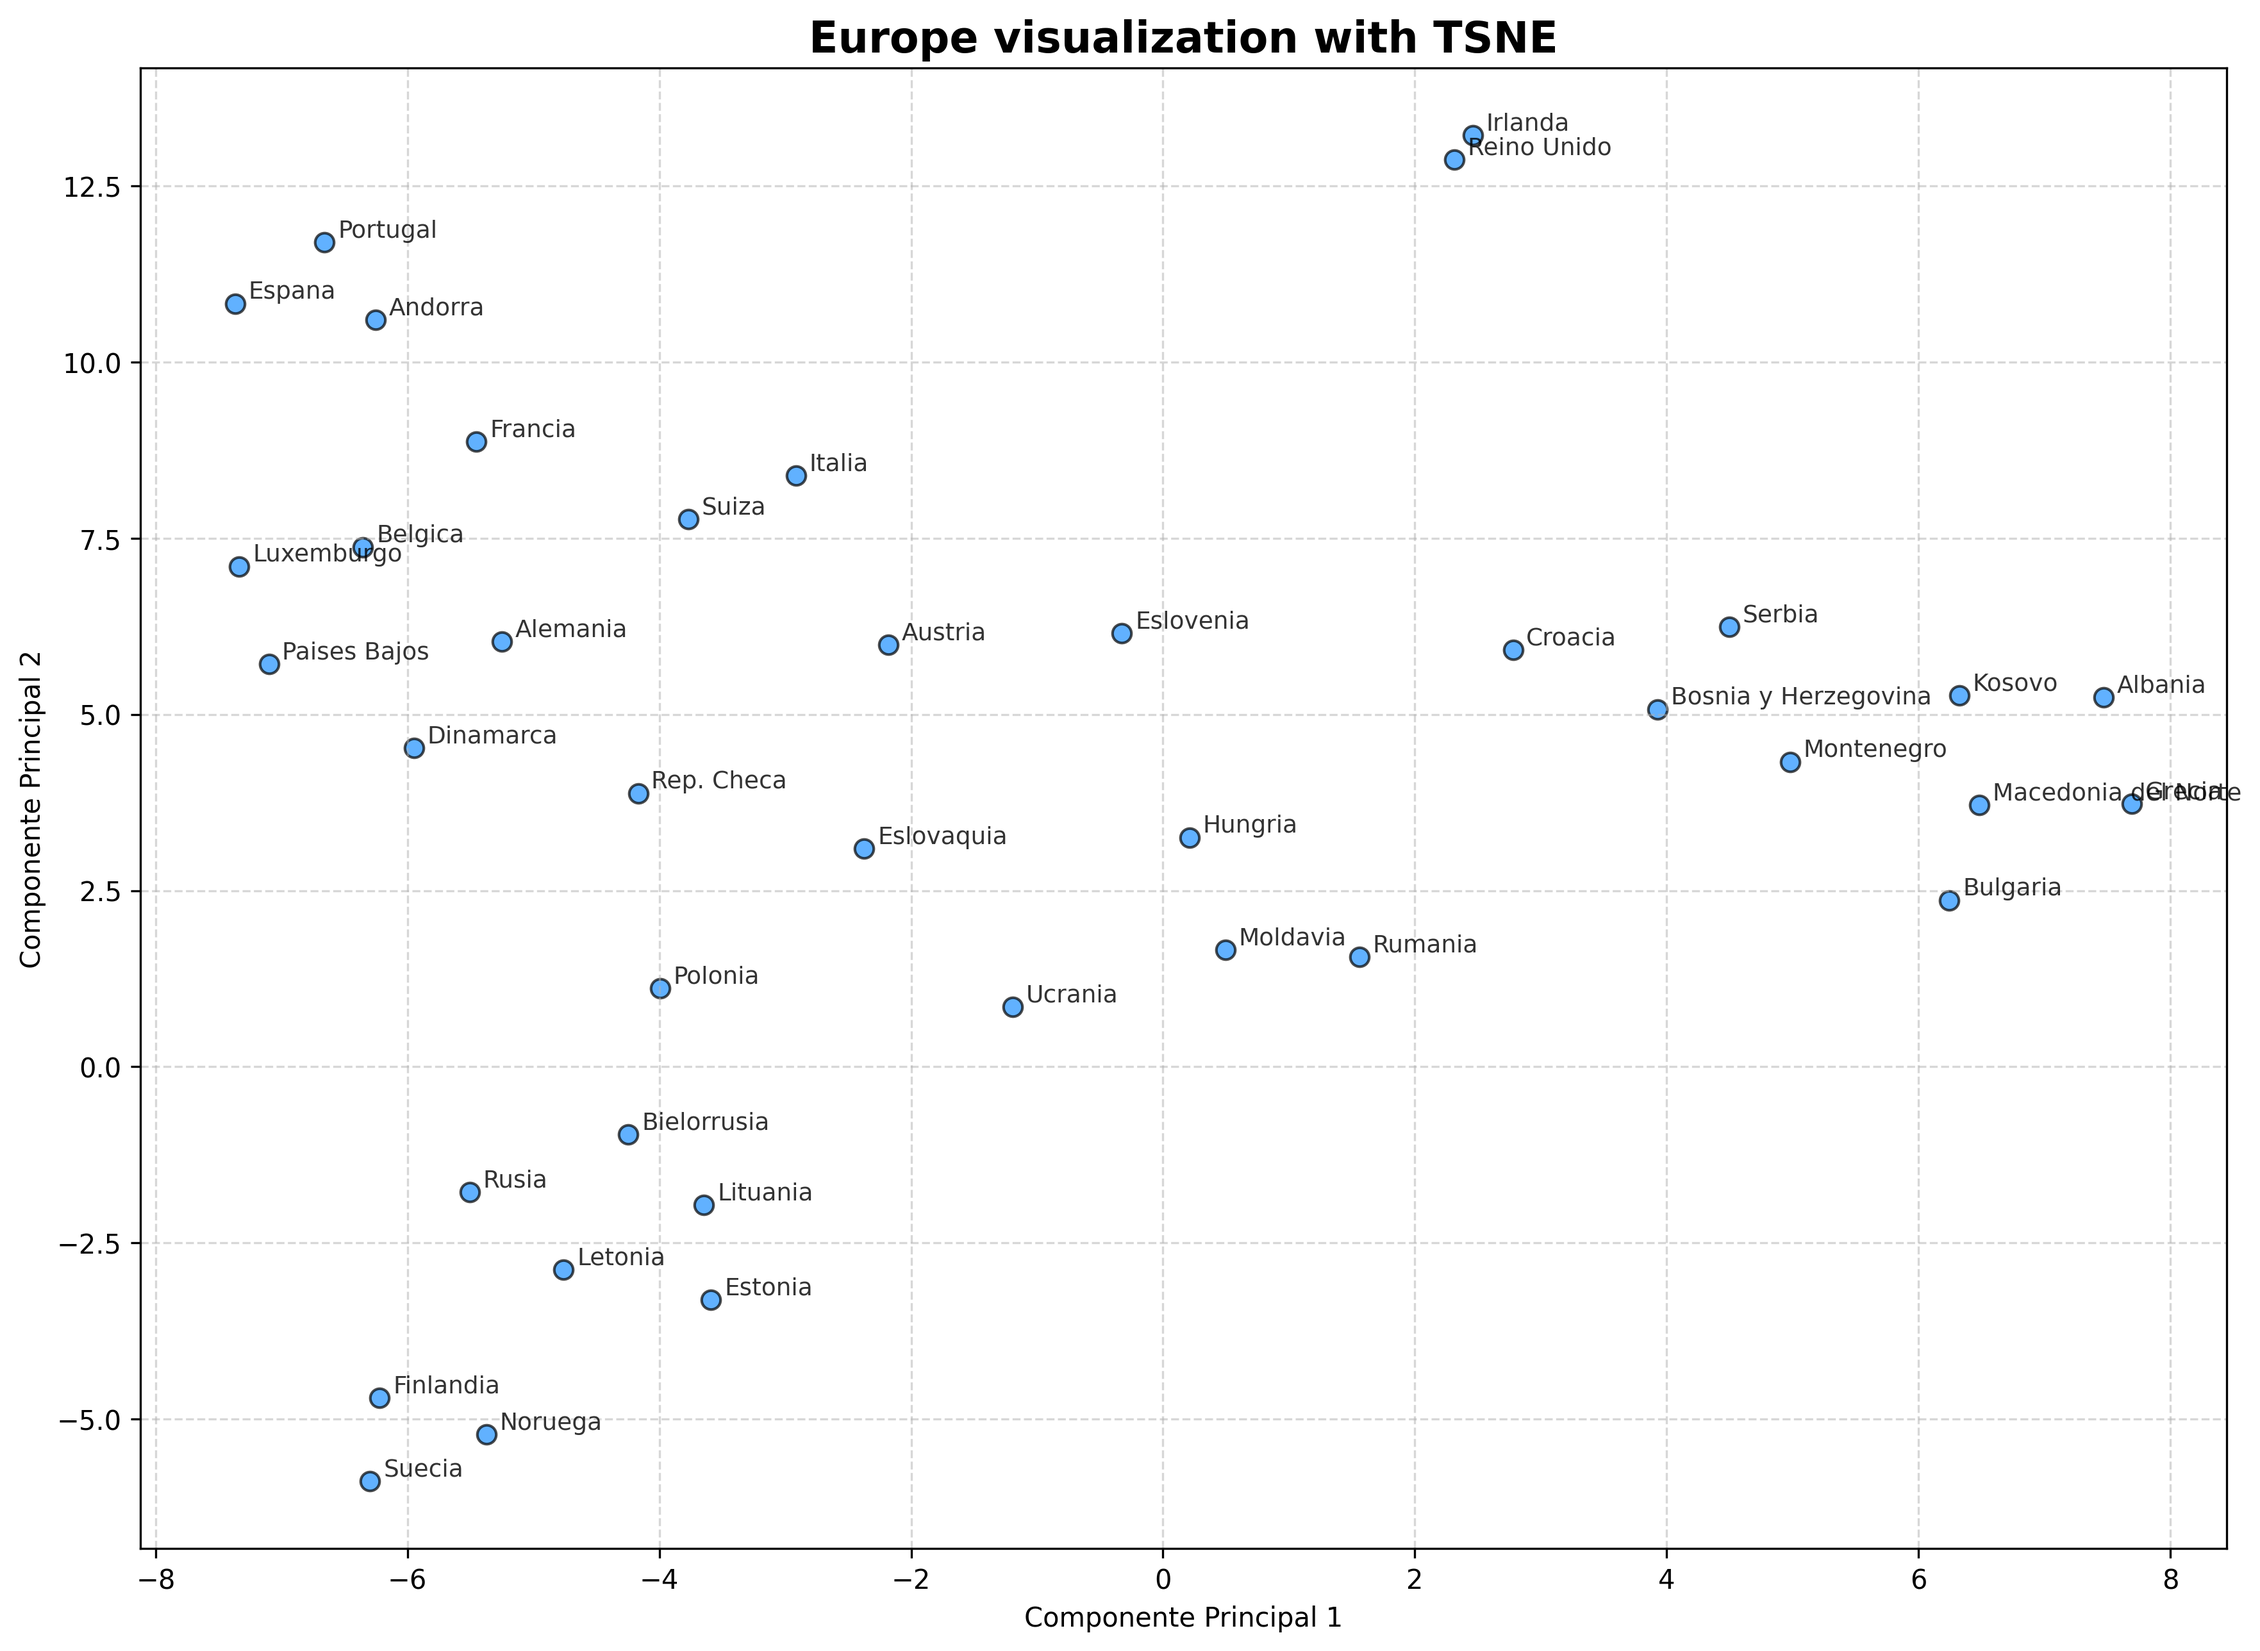
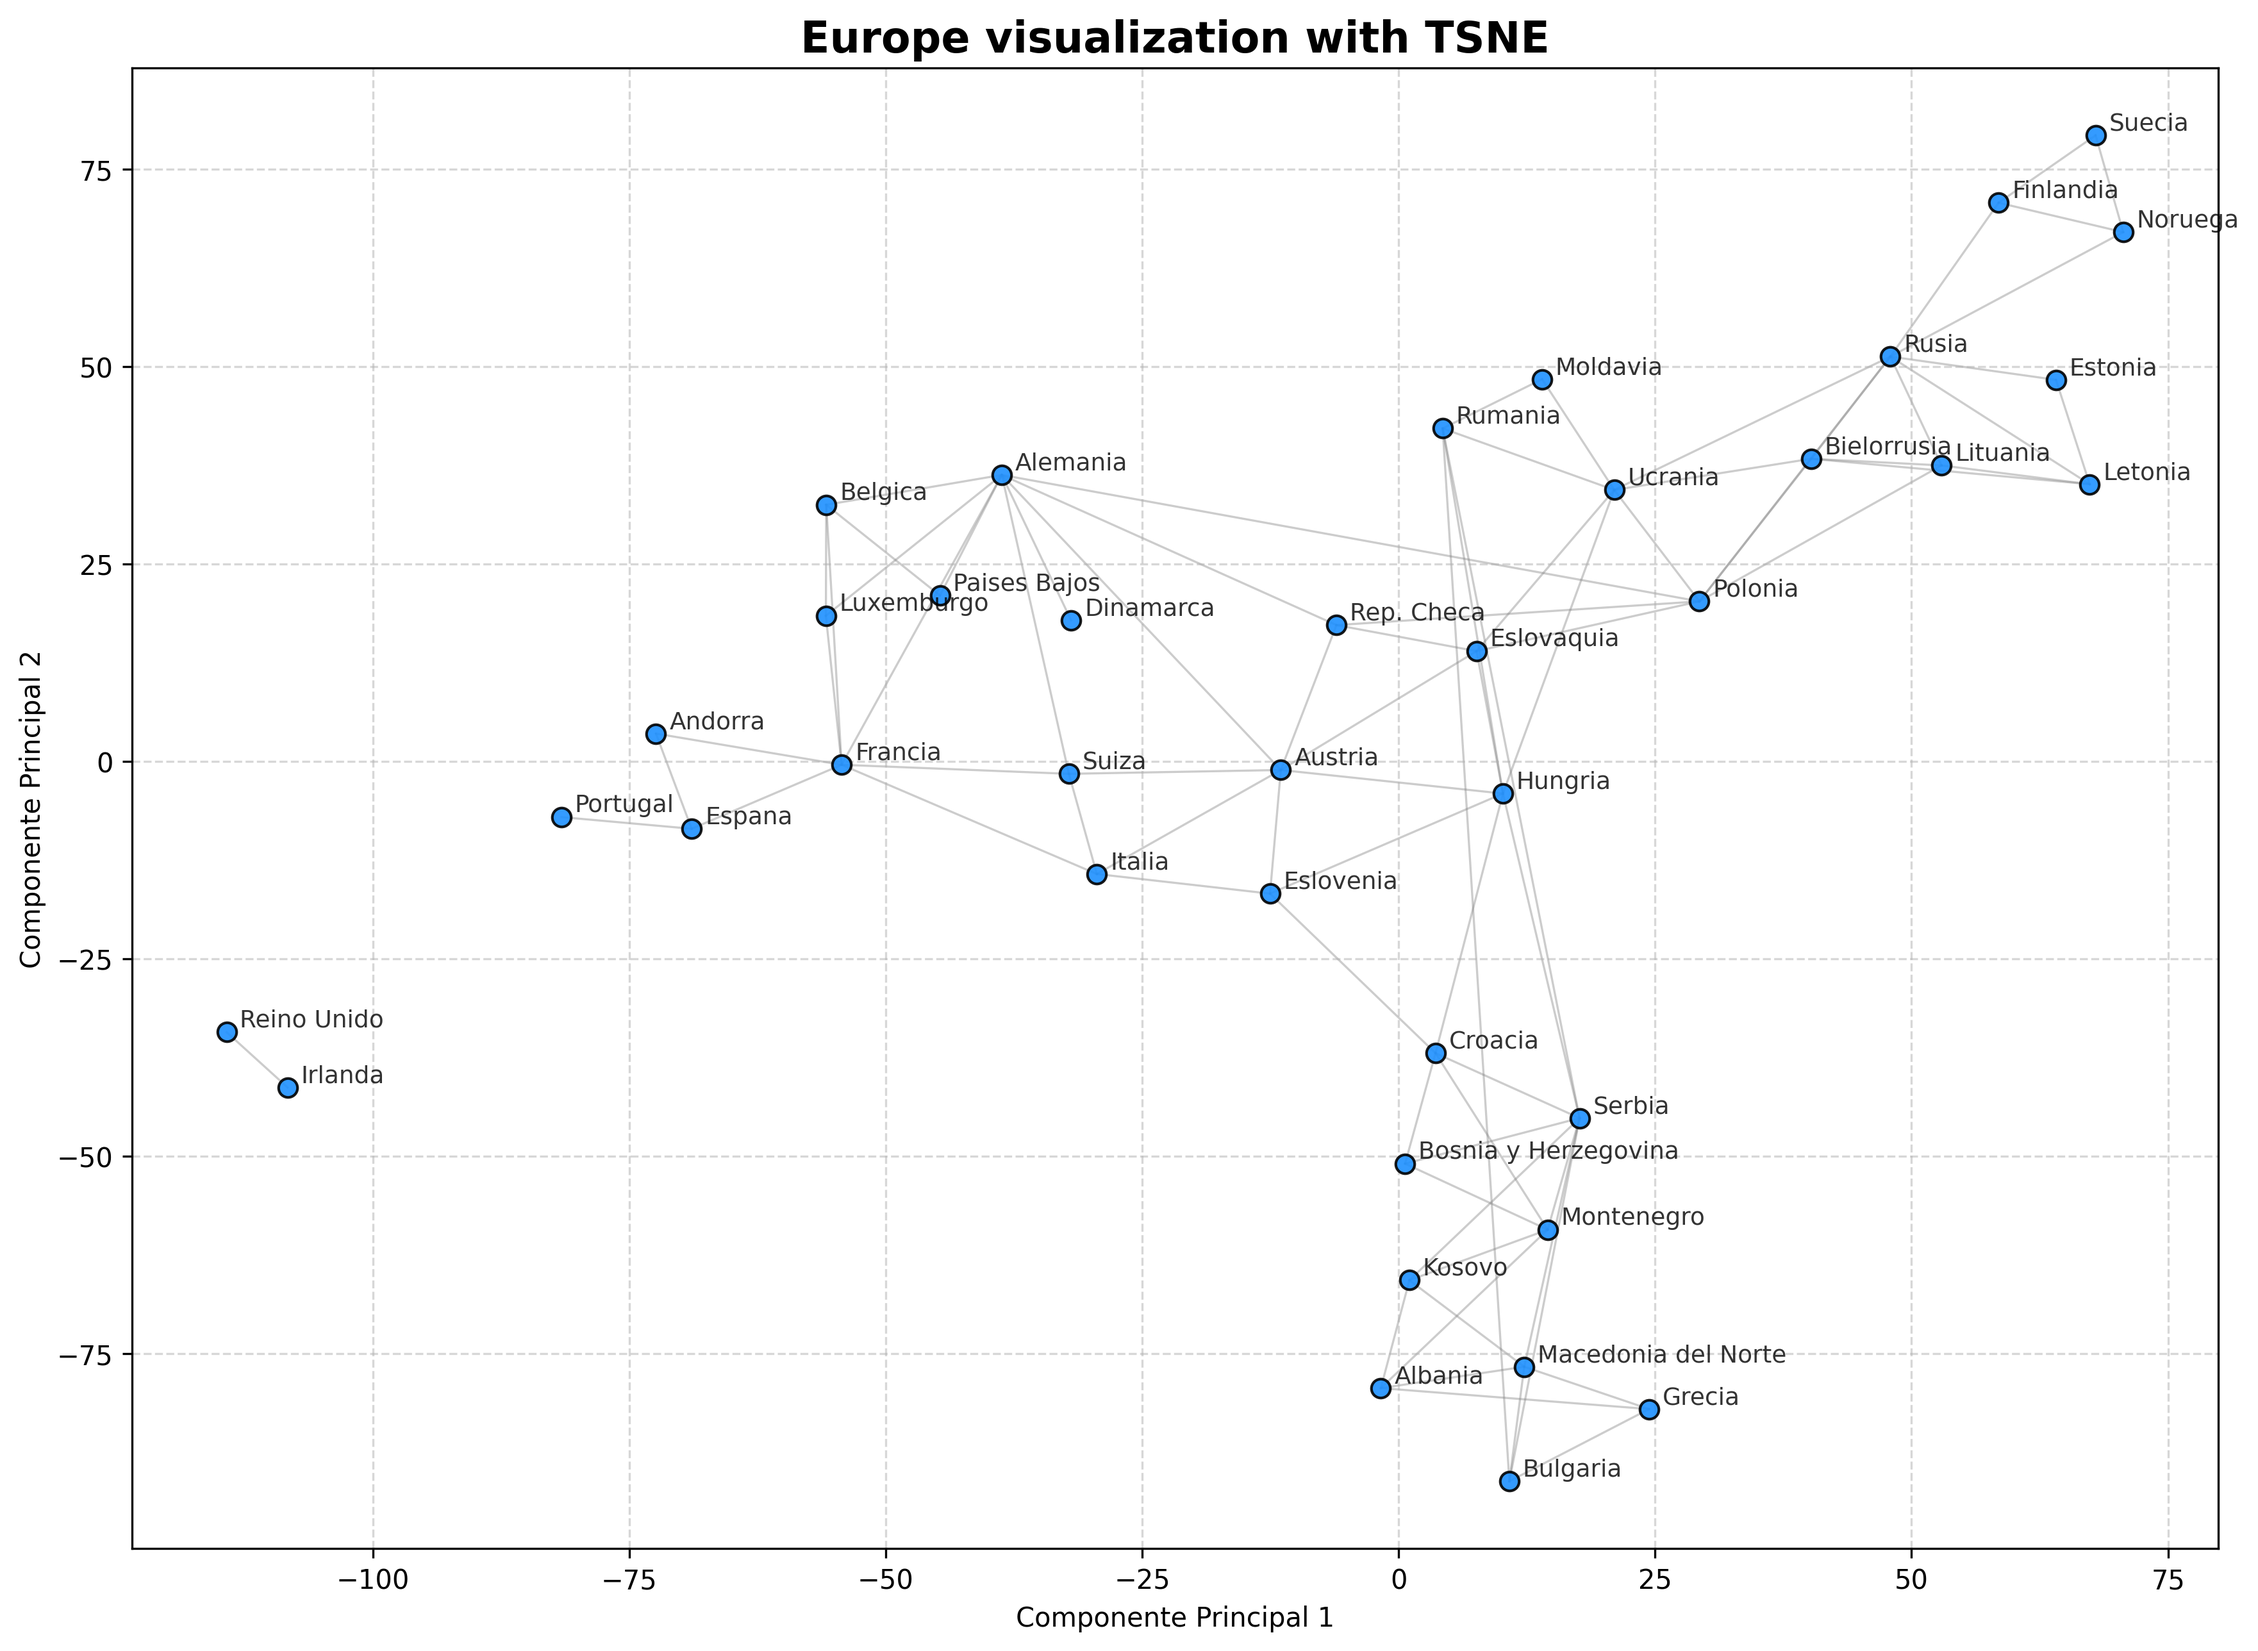
plots

diff --git a/python/main.py b/python/main.py
@@ -1,121 +1,78 @@
 import sys
 import os
-
-build_path = os.path.abspath(os.path.join(os.path.dirname(__file__), "..", "build"))
-sys.path.append(build_path)
-import node2vec_cpp
 from pathlib import Path
 import pandas as pd
 import matplotlib.pyplot as plt
 from sklearn.decomposition import PCA
-from  sklearn.manifold import TSNE
+from sklearn.manifold import TSNE
+
+build_path = os.path.abspath(os.path.join(os.path.dirname(__file__), "..", "build"))
+sys.path.append(build_path)
+import node2vec_cpp
+
 BASE_DIR = Path(__file__).resolve().parent.parent
 OUTPUT_DIR = BASE_DIR / "outputs" / "figures"
+OUTPUT_DIR.mkdir(parents=True, exist_ok=True) 
+
 graph = node2vec_cpp.Graph()
 
 countries = [
-        "Portugal", "Espana", "Andorra", "Francia", "Belgica", "Paises Bajos", 
-        "Luxemburgo", "Alemania", "Suiza", "Italia", "Dinamarca", "Polonia", 
-        "Rep. Checa", "Austria", "Eslovaquia", "Hungria", "Eslovenia", "Croacia", 
-        "Bosnia y Herzegovina", "Serbia", "Montenegro", "Kosovo", "Albania", 
-        "Macedonia del Norte", "Grecia", "Bulgaria", "Rumania", "Moldavia", 
-        "Ucrania", "Bielorrusia", "Lituania", "Letonia", "Estonia", "Rusia", 
-        "Finlandia", "Suecia", "Noruega", "Reino Unido", "Irlanda"
-    ]
+    "Portugal", "Espana", "Andorra", "Francia", "Belgica", "Paises Bajos", 
+    "Luxemburgo", "Alemania", "Suiza", "Italia", "Dinamarca", "Polonia", 
+    "Rep. Checa", "Austria", "Eslovaquia", "Hungria", "Eslovenia", "Croacia", 
+    "Bosnia y Herzegovina", "Serbia", "Montenegro", "Kosovo", "Albania", 
+    "Macedonia del Norte", "Grecia", "Bulgaria", "Rumania", "Moldavia", 
+    "Ucrania", "Bielorrusia", "Lituania", "Letonia", "Estonia", "Rusia", 
+    "Finlandia", "Suecia", "Noruega", "Reino Unido", "Irlanda"
+]
+
+
+country_to_idx = {country: i for i, country in enumerate(countries)}
 
 for country in countries:
-    graph.add_vertex(country,[1])
-graph.add_edge("Portugal", "Espana", 1.0)
-graph.add_edge("Espana", "Francia", 1.0)
-graph.add_edge("Espana", "Andorra", 1.0)
-graph.add_edge("Andorra", "Francia", 1.0)
-graph.add_edge("Francia", "Belgica", 1.0)
-graph.add_edge("Francia", "Luxemburgo", 1.0)
-graph.add_edge("Francia", "Alemania", 1.0)
-graph.add_edge("Francia", "Suiza", 1.0)
-graph.add_edge("Francia", "Italia", 1.0)
-graph.add_edge("Belgica", "Paises Bajos", 1.0)
-graph.add_edge("Belgica", "Luxemburgo", 1.0)
-graph.add_edge("Belgica", "Alemania", 1.0)
-graph.add_edge("Paises Bajos", "Alemania", 1.0)
-graph.add_edge("Luxemburgo", "Alemania", 1.0)
-graph.add_edge("Alemania", "Dinamarca", 1.0)
-graph.add_edge("Alemania", "Polonia", 1.0)
-graph.add_edge("Alemania", "Rep. Checa", 1.0)
-graph.add_edge("Alemania", "Austria", 1.0)
-graph.add_edge("Alemania", "Suiza", 1.0)
-graph.add_edge("Suiza", "Austria", 1.0)
-graph.add_edge("Suiza", "Italia", 1.0)
-graph.add_edge("Italia", "Austria", 1.0)
-graph.add_edge("Italia", "Eslovenia", 1.0)
-graph.add_edge("Polonia", "Rusia", 1.0)
-graph.add_edge("Polonia", "Lituania", 1.0)
-graph.add_edge("Polonia", "Bielorrusia", 1.0)
-graph.add_edge("Polonia", "Ucrania", 1.0)
-graph.add_edge("Polonia", "Eslovaquia", 1.0)
-graph.add_edge("Polonia", "Rep. Checa", 1.0)
-graph.add_edge("Rep. Checa", "Eslovaquia", 1.0)
-graph.add_edge("Rep. Checa", "Austria", 1.0)
-graph.add_edge("Austria", "Eslovaquia", 1.0)
-graph.add_edge("Austria", "Hungria", 1.0)
-graph.add_edge("Austria", "Eslovenia", 1.0)
-graph.add_edge("Eslovaquia", "Ucrania", 1.0)
-graph.add_edge("Eslovaquia", "Hungria", 1.0)
-graph.add_edge("Hungria", "Ucrania", 1.0)
-graph.add_edge("Hungria", "Rumania", 1.0)
-graph.add_edge("Hungria", "Serbia", 1.0)
-graph.add_edge("Hungria", "Croacia", 1.0)
-graph.add_edge("Hungria", "Eslovenia", 1.0)
-graph.add_edge("Eslovenia", "Croacia", 1.0)
-graph.add_edge("Croacia", "Serbia", 1.0)
-graph.add_edge("Croacia", "Bosnia y Herzegovina", 1.0)
-graph.add_edge("Croacia", "Montenegro", 1.0)
-graph.add_edge("Bosnia y Herzegovina", "Serbia", 1.0)
-graph.add_edge("Bosnia y Herzegovina", "Montenegro", 1.0)
-graph.add_edge("Serbia", "Rumania", 1.0)
-graph.add_edge("Serbia", "Bulgaria", 1.0)
-graph.add_edge("Serbia", "Macedonia del Norte", 1.0)
-graph.add_edge("Serbia", "Kosovo", 1.0)
-graph.add_edge("Serbia", "Montenegro", 1.0)
-graph.add_edge("Montenegro", "Kosovo", 1.0)
-graph.add_edge("Montenegro", "Albania", 1.0)
-graph.add_edge("Kosovo", "Macedonia del Norte", 1.0)
-graph.add_edge("Kosovo", "Albania", 1.0)
-graph.add_edge("Albania", "Macedonia del Norte", 1.0)
-graph.add_edge("Albania", "Grecia", 1.0)
-graph.add_edge("Macedonia del Norte", "Bulgaria", 1.0)
-graph.add_edge("Macedonia del Norte", "Grecia", 1.0)
-graph.add_edge("Bulgaria", "Rumania", 1.0)
-graph.add_edge("Bulgaria", "Grecia", 1.0)
-graph.add_edge("Rumania", "Moldavia", 1.0)
-graph.add_edge("Rumania", "Ucrania", 1.0)
-graph.add_edge("Moldavia", "Ucrania", 1.0)
-graph.add_edge("Ucrania", "Bielorrusia", 1.0)
-graph.add_edge("Ucrania", "Rusia", 1.0)
-graph.add_edge("Bielorrusia", "Rusia", 1.0)
-graph.add_edge("Bielorrusia", "Letonia", 1.0)
-graph.add_edge("Bielorrusia", "Lituania", 1.0)
-graph.add_edge("Lituania", "Letonia", 1.0)
-graph.add_edge("Lituania", "Rusia", 1.0) 
-graph.add_edge("Letonia", "Estonia", 1.0)
-graph.add_edge("Letonia", "Rusia", 1.0)
-graph.add_edge("Estonia", "Rusia", 1.0)
-graph.add_edge("Rusia", "Finlandia", 1.0)
-graph.add_edge("Rusia", "Noruega", 1.0)
-graph.add_edge("Finlandia", "Noruega", 1.0)
-graph.add_edge("Finlandia", "Suecia", 1.0)
-graph.add_edge("Suecia", "Noruega", 1.0)
-graph.add_edge("Reino Unido", "Irlanda", 1.0)
+    graph.add_vertex(country, [1])
 
-modelo = node2vec_cpp.SkipGram(100,False)
-walks = graph.get_walks(10,15,1.0,1.0)
+
+edges = [
+    ("Portugal", "Espana"), ("Espana", "Francia"), ("Espana", "Andorra"), ("Andorra", "Francia"),
+    ("Francia", "Belgica"), ("Francia", "Luxemburgo"), ("Francia", "Alemania"), ("Francia", "Suiza"),
+    ("Francia", "Italia"), ("Belgica", "Paises Bajos"), ("Belgica", "Luxemburgo"), ("Belgica", "Alemania"),
+    ("Paises Bajos", "Alemania"), ("Luxemburgo", "Alemania"), ("Alemania", "Dinamarca"),
+    ("Alemania", "Polonia"), ("Alemania", "Rep. Checa"), ("Alemania", "Austria"), ("Alemania", "Suiza"),
+    ("Suiza", "Austria"), ("Suiza", "Italia"), ("Italia", "Austria"), ("Italia", "Eslovenia"),
+    ("Polonia", "Rusia"), ("Polonia", "Lituania"), ("Polonia", "Bielorrusia"), ("Polonia", "Ucrania"),
+    ("Polonia", "Eslovaquia"), ("Polonia", "Rep. Checa"), ("Rep. Checa", "Eslovaquia"),
+    ("Rep. Checa", "Austria"), ("Austria", "Eslovaquia"), ("Austria", "Hungria"), ("Austria", "Eslovenia"),
+    ("Eslovaquia", "Ucrania"), ("Eslovaquia", "Hungria"), ("Hungria", "Ucrania"), ("Hungria", "Rumania"),
+    ("Hungria", "Serbia"), ("Hungria", "Croacia"), ("Hungria", "Eslovenia"), ("Eslovenia", "Croacia"),
+    ("Croacia", "Serbia"), ("Croacia", "Bosnia y Herzegovina"), ("Croacia", "Montenegro"),
+    ("Bosnia y Herzegovina", "Serbia"), ("Bosnia y Herzegovina", "Montenegro"), ("Serbia", "Rumania"),
+    ("Serbia", "Bulgaria"), ("Serbia", "Macedonia del Norte"), ("Serbia", "Kosovo"), ("Serbia", "Montenegro"),
+    ("Montenegro", "Kosovo"), ("Montenegro", "Albania"), ("Kosovo", "Macedonia del Norte"),
+    ("Kosovo", "Albania"), ("Albania", "Macedonia del Norte"), ("Albania", "Grecia"),
+    ("Macedonia del Norte", "Bulgaria"), ("Macedonia del Norte", "Grecia"), ("Bulgaria", "Rumania"),
+    ("Bulgaria", "Grecia"), ("Rumania", "Moldavia"), ("Rumania", "Ucrania"), ("Moldavia", "Ucrania"),
+    ("Ucrania", "Bielorrusia"), ("Ucrania", "Rusia"), ("Bielorrusia", "Rusia"), ("Bielorrusia", "Letonia"),
+    ("Bielorrusia", "Lituania"), ("Lituania", "Letonia"), ("Lituania", "Rusia"), ("Letonia", "Estonia"),
+    ("Letonia", "Rusia"), ("Estonia", "Rusia"), ("Rusia", "Finlandia"), ("Rusia", "Noruega"),
+    ("Finlandia", "Noruega"), ("Finlandia", "Suecia"), ("Suecia", "Noruega"), ("Reino Unido", "Irlanda")
+]
+
+
+for src, dst in edges:
+    graph.add_edge(src, dst, 1.0)
+
+
+modelo = node2vec_cpp.SkipGram(100, False)
+walks = graph.get_walks(10, 15, 1.0, 1.0)
 epochs = 10
 K = 5
 C = 3           
 alpha = 0.025 
-modelo.build_vocab(graph.get_nodes(),graph.get_degrees())
-losses = modelo.train(walks,epochs,K,C,alpha,True)
+modelo.build_vocab(graph.get_nodes(), graph.get_degrees())
+losses = modelo.train(walks, epochs, K, C, alpha, True)
 embeddings = pd.DataFrame(modelo.get_embeddings())
+
 
 pca = PCA(n_components=2)
 embeddings_pca = pca.fit_transform(embeddings)
@@ -125,62 +82,60 @@ embeddings_2d = tsne.fit_transform(embeddings)
 
 
 plt.figure(figsize=(14, 10))
-
 x_coords = embeddings_2d[:, 0]
 y_coords = embeddings_2d[:, 1]
 
 
-plt.scatter(x_coords, y_coords, color='dodgerblue', s=50, edgecolors='black', alpha=0.7)
+for src, dst in edges:
+    if src in country_to_idx and dst in country_to_idx:
+        i, j = country_to_idx[src], country_to_idx[dst]
+        plt.plot([x_coords[i], x_coords[j]], [y_coords[i], y_coords[j]], 
+                 color='gray', linestyle='-', linewidth=0.8, alpha=0.4, zorder=1)
 
+
+plt.scatter(x_coords, y_coords, color='dodgerblue', s=50, edgecolors='black', alpha=0.9, zorder=2)
 
 for i, pais in enumerate(countries):
-    plt.annotate(
-        pais,
-        (x_coords[i], y_coords[i]),
-        xytext=(5, 2), 
-        textcoords='offset points',
-        fontsize=9,
-        alpha=0.8
-    )
-
+    plt.annotate(pais, (x_coords[i], y_coords[i]), xytext=(5, 2), 
+                 textcoords='offset points', fontsize=9, alpha=0.8, zorder=3)
 
 plt.title("Europe visualization with TSNE", fontsize=16, fontweight='bold')
 plt.xlabel("Componente Principal 1")
 plt.ylabel("Componente Principal 2")
 plt.grid(True, linestyle='--', alpha=0.5)
-#plt.savefig(OUTPUT_DIR/"europe_map_tsne.png",dpi=300, bbox_inches='tight')
-
+plt.savefig(OUTPUT_DIR / "europe_map_tsne.png", dpi=300, bbox_inches='tight')
 plt.show()
-plt.figure(figsize=(14, 10))
 
+
+plt.figure(figsize=(14, 10))
 x_coords = embeddings_pca[:, 0]
 y_coords = embeddings_pca[:, 1]
 
 
-plt.scatter(x_coords, y_coords, color='dodgerblue', s=50, edgecolors='black', alpha=0.7)
+for src, dst in edges:
+    if src in country_to_idx and dst in country_to_idx:
+        i, j = country_to_idx[src], country_to_idx[dst]
+        plt.plot([x_coords[i], x_coords[j]], [y_coords[i], y_coords[j]], 
+                 color='gray', linestyle='-', linewidth=0.8, alpha=0.4, zorder=1)
 
+plt.scatter(x_coords, y_coords, color='dodgerblue', s=50, edgecolors='black', alpha=0.9, zorder=2)
 
 for i, pais in enumerate(countries):
-    plt.annotate(
-        pais,
-        (x_coords[i], y_coords[i]),
-        xytext=(5, 2), 
-        textcoords='offset points',
-        fontsize=9,
-        alpha=0.8
-    )
+    plt.annotate(pais, (x_coords[i], y_coords[i]), xytext=(5, 2), 
+                 textcoords='offset points', fontsize=9, alpha=0.8, zorder=3)
 
 plt.title("Europe visualization with PCA", fontsize=16, fontweight='bold')
 plt.xlabel("Componente Principal 1")
 plt.ylabel("Componente Principal 2")
 plt.grid(True, linestyle='--', alpha=0.5)
-#plt.savefig(OUTPUT_DIR/"europe_map_pca.png",dpi=300, bbox_inches='tight')
+plt.savefig(OUTPUT_DIR / "europe_map_pca.png", dpi=300, bbox_inches='tight')
 plt.show()
+
 
 plt.figure(figsize=(14, 10))
 plt.title("Loss curve")
 plt.xlabel("Epochs")
 plt.ylabel("Loss")
-plt.plot(losses)
-plt.savefig(OUTPUT_DIR/"loss_curve",dpi=300, bbox_inches='tight')
+plt.plot(losses, marker='o') 
+
 plt.show()
